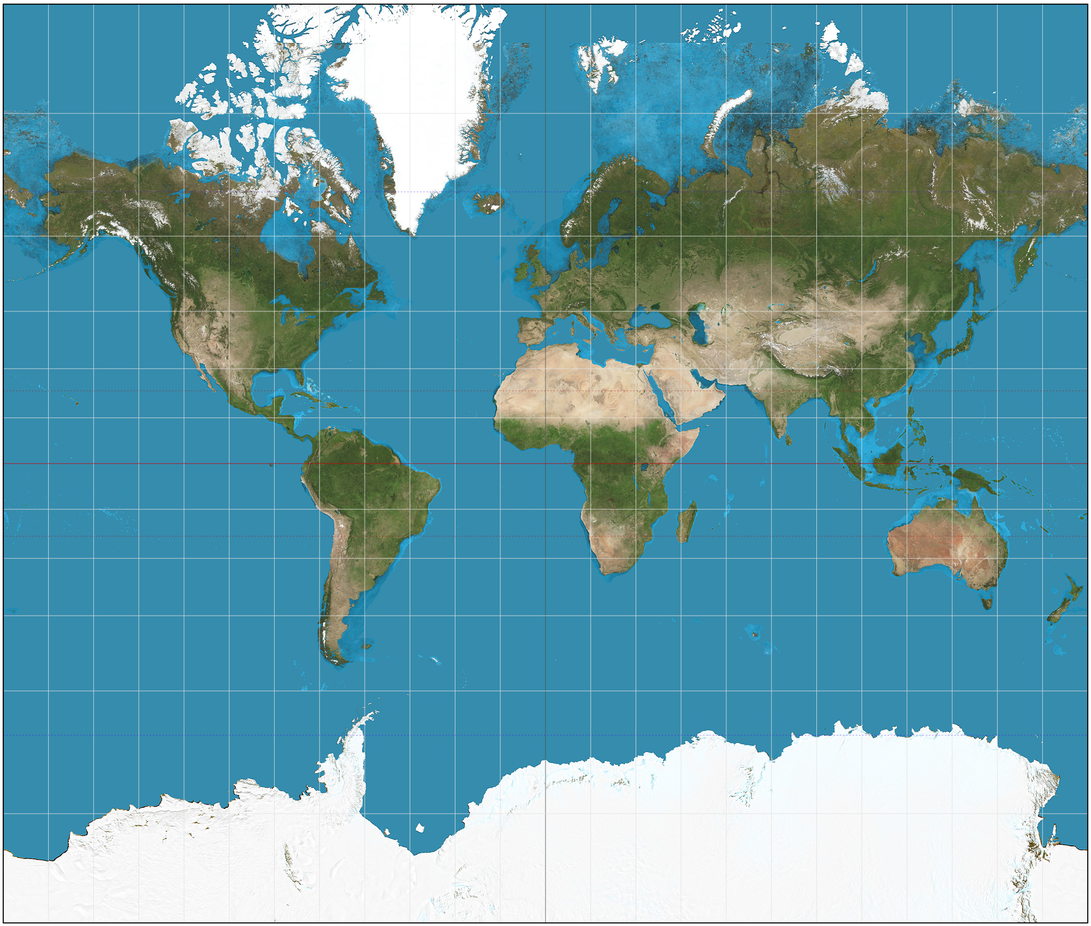
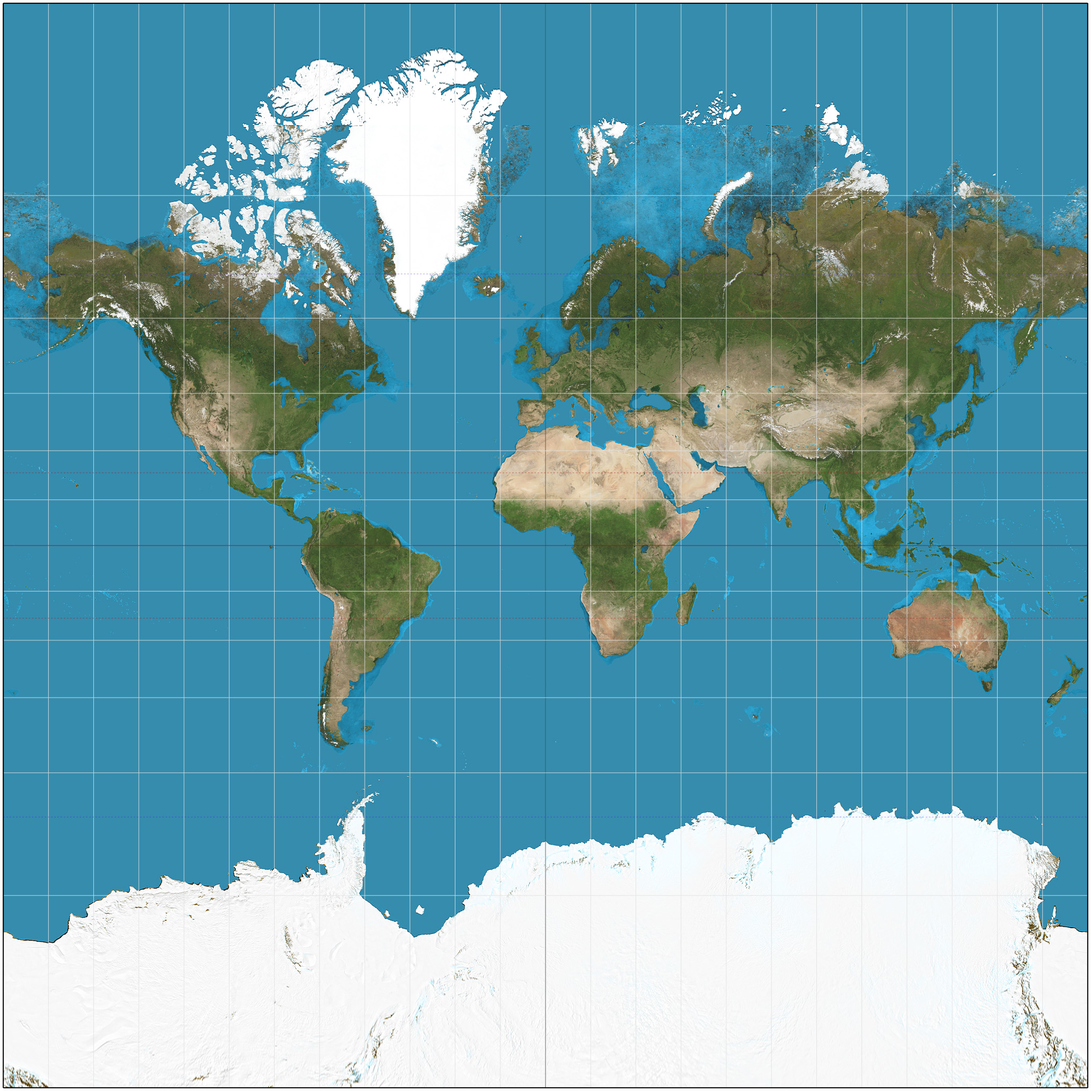
Satellite tracker displays satellites on map

diff --git a/src/services/satellite-fetcher.service.ts b/src/services/satellite-fetcher.service.ts
@@ -1,8 +1,9 @@
 import { Injectable } from '@angular/core';
 import { Satellite } from 'src/map/satellite';
 import { HttpClient } from "@angular/common/http";
-import { Observable, map, forkJoin } from 'rxjs';
+import { Observable, map, forkJoin, filter, mergeMap, EMPTY, of } from 'rxjs';
 import { Location } from 'src/map/satellite';
+import { twoline2satrec, eciToGeodetic, propagate, gstime, degreesLong, degreesLat } from "satellite.js"
 
 interface SatelliteId {
     name: string,
@@ -32,26 +33,34 @@ export class SatelliteFetcherService {
             name: "CENTAURI-1",
             id: 43809,
         },
-        {
-            name: "ROBUSTA 1B",
-            id: 42792,
-        },
     ]
 
     public satellites(): Observable<Satellite[]> {
         console.log("Fetching satellites");
+        const date = new Date();
         const satelliteObservables = this.satelliteIds.map((satelliteId) => 
             this.httpClient
             .get<SatelliteResponse>(`${this.baseApiUrl}/${satelliteId.id}`)
-            .pipe(map((response =>
-                ({ name: response.name, location: this.twoLineElementToLatLong(response) }) as Satellite
-            )))
+            .pipe(mergeMap((response: SatelliteResponse) => {
+                const location = this.twoLineElementToLatLong(response, date);
+                if (location === undefined) return EMPTY;
+
+                return of({ name: response.name, location });
+            }))
         )
         return forkJoin(satelliteObservables)
     }
 
-    protected twoLineElementToLatLong(twoLineElement: TwoLineElement): Location {
-        console.log("Converting two line element", twoLineElement);
-        return { latitude: 43, longitude: 51 };
+    protected twoLineElementToLatLong(twoLineElement: TwoLineElement, date: Date): Location | undefined {
+        const eciData = propagate(twoline2satrec(twoLineElement.line1, twoLineElement.line2), date);
+        if (typeof eciData.position === "boolean")
+            return undefined;
+
+        const geodesicPosition = eciToGeodetic(eciData.position, gstime(date));
+        console.log("Converted two line element to position", geodesicPosition);
+        return {
+            latitude: degreesLat(geodesicPosition.latitude),
+            longitude: degreesLong(geodesicPosition.longitude),
+        };
     }
 }

diff --git a/src/root/root.component.ts b/src/root/root.component.ts
@@ -39,6 +39,9 @@ export class RootComponent {
     constructor(private satelliteFetcher: SatelliteFetcherService) {}
 
     private ngOnInit() {
-        setTimeout(() => this.satelliteFetcher.satellites().subscribe((satellites) => this.satellites = satellites), 5000)
+        this.satelliteFetcher.satellites().subscribe((satellites) => {
+            this.satellites = satellites;
+            console.log("root: received satellites", satellites);
+        })
     }
 }

diff --git a/src/map/map.component.ts b/src/map/map.component.ts
@@ -16,8 +16,8 @@ export class MapComponent {
     @Input() satellites!: Satellite[];
 
     protected readonly dimensions = { 
-        width: 1024, 
-        height: 1024,
+        width: 2058, 
+        height: 2058,
     };
 
     protected ngOnInit() {
